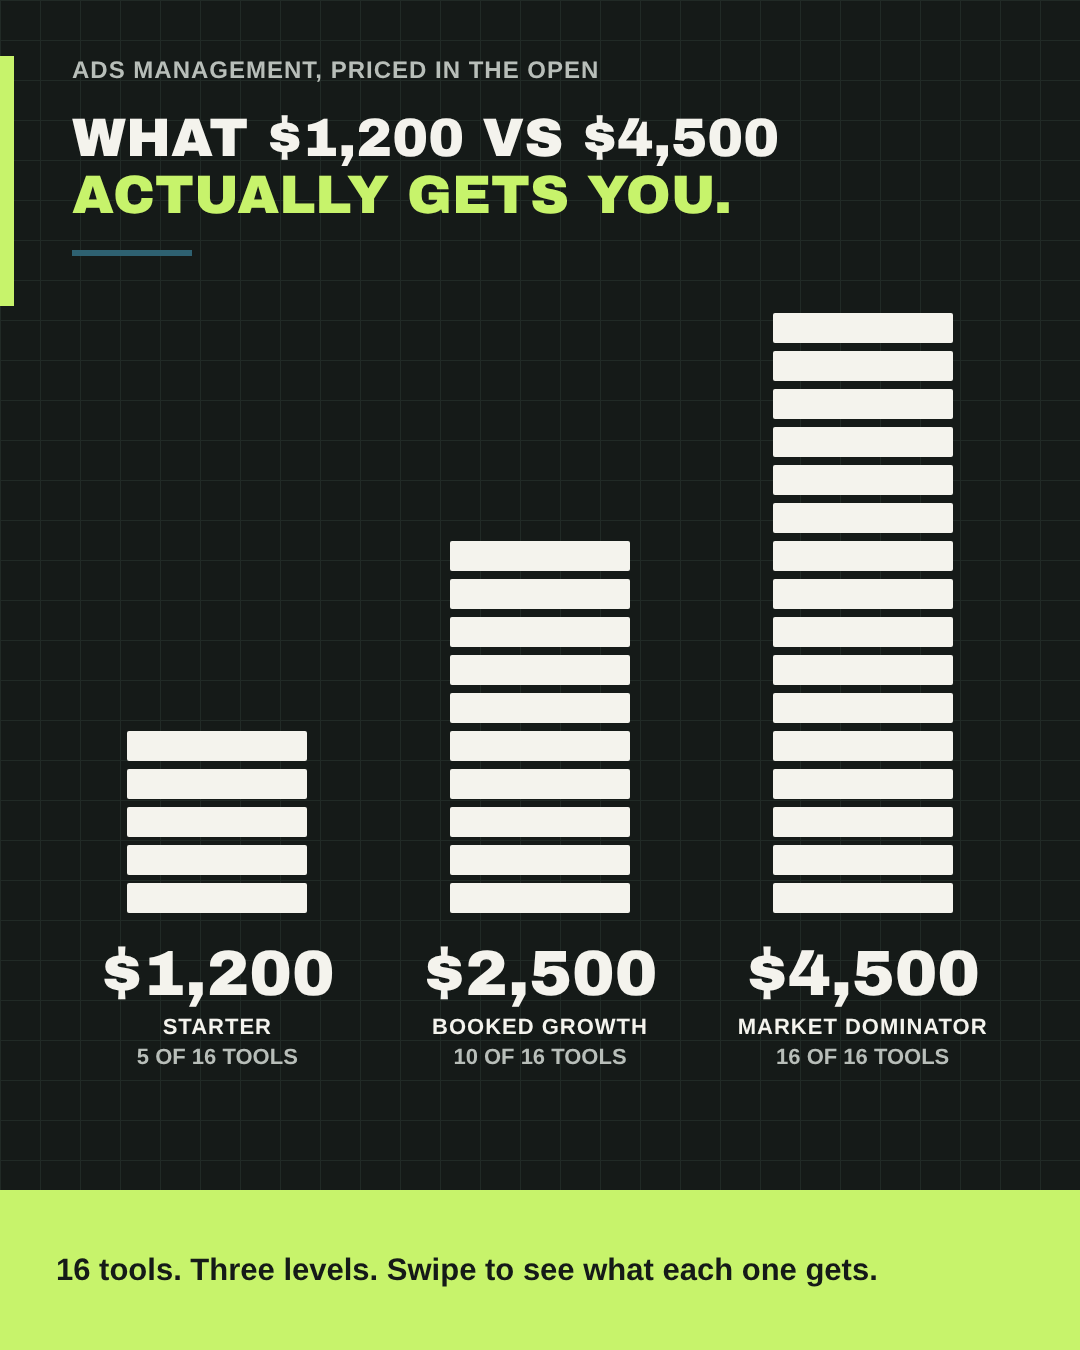
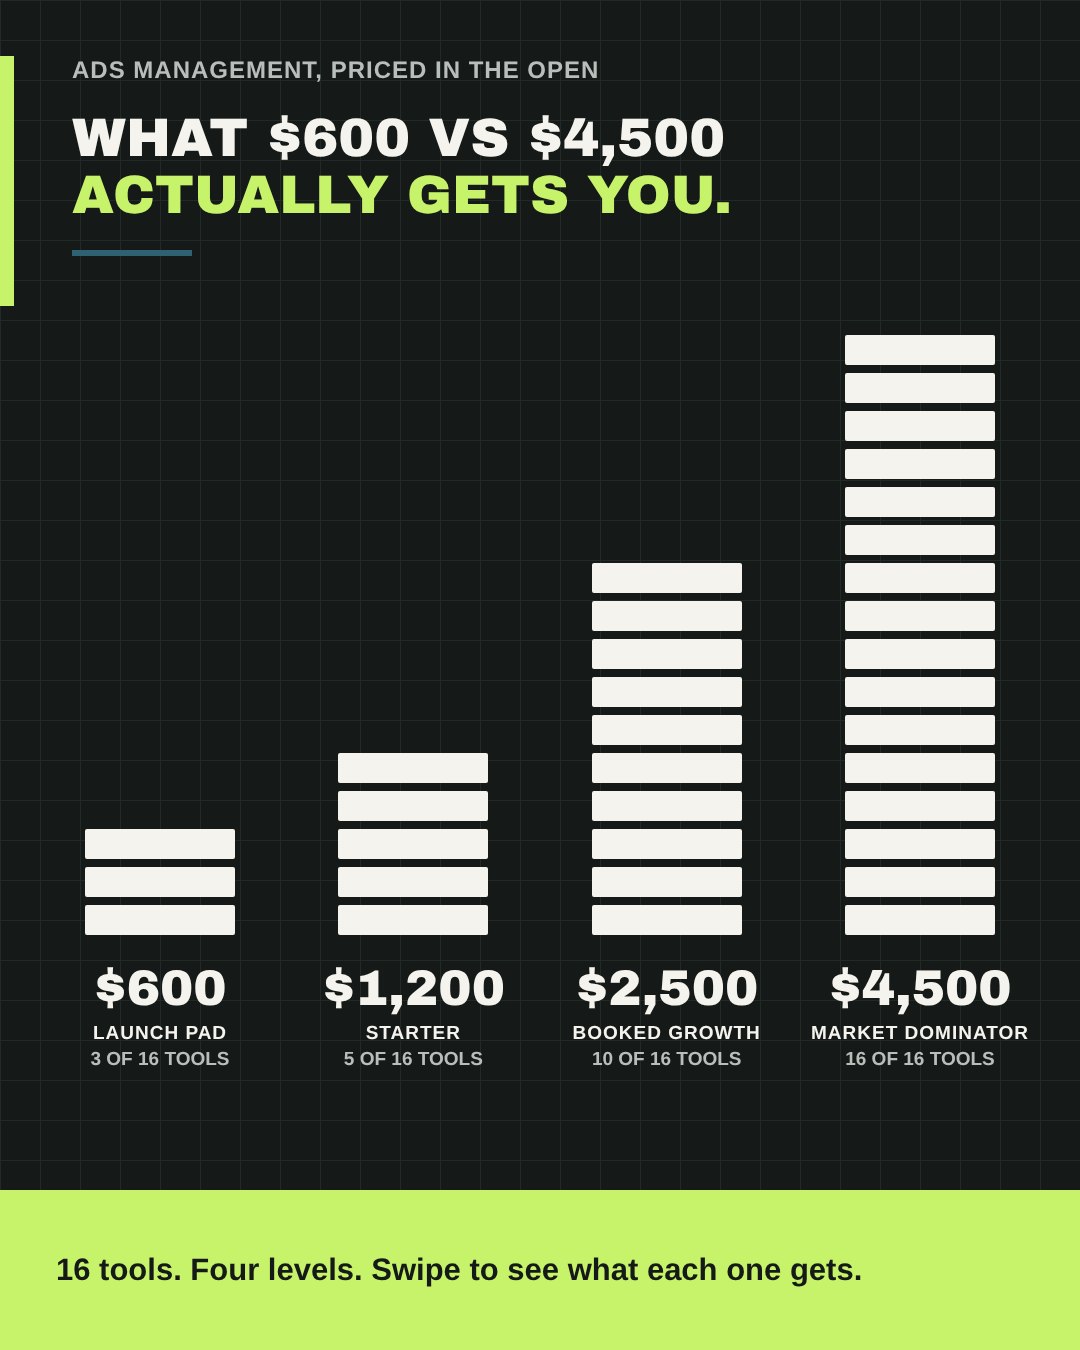
Add the $600 tier to the tier carousel
Shows it publicly as Level 1 of 4 (placeholder name Launch Pad): one
platform, ad copy, monthly report, lead forms only, CRM extra.

Claude-Session: https://claude.ai/code/session_01XH7dYU3EvbNxHwGiV8vcwJ

Changed region(s): [[0.0611, 0.2178, 0.9472, 0.8089], [0.275, 0.0622, 0.7333, 0.1244], [0.1833, 0.9333, 0.825, 0.9644]]

diff --git a/docs/carousel/source/gen.py b/docs/carousel/source/gen.py
@@ -20,12 +20,12 @@ I={
 "priority":f'<path d="M8 28v-6a16 16 0 0 1 32 0v6" {S}/><rect x="6" y="28" width="8" height="12" fill="currentColor"/><rect x="34" y="28" width="8" height="12" fill="currentColor"/>',
 }
 CHECK=f'<svg viewBox="0 0 24 24" width="22" height="22"><path d="M5 12l5 5 9-10" stroke="{INK}" stroke-width="3.5" fill="none" stroke-linecap="square"/></svg>'
-TILES=[("net1","One ad network",1),("copy","Ad copy",1),("season","Seasonal campaigns",1),("track","Call + lead tracking",1),
-("report","Monthly report",1),("net2","Second network",2),("retarget","Retargeting",2),("alert","Instant lead alerts",2),
-("follow","Automated follow-up",2),("creative","Custom creative",2),("video","Video ad editing",3),("crm","Full CRM + booking",3),
-("cats","Every service category",3),("year","Yearly season calendar",3),("review","Bi-weekly reviews",3),("priority","Priority support",3)]
+TILES=[("net1","One ad platform",1),("copy","Ad copy",1),("report","Monthly report",1),("season","Seasonal campaigns",2),
+("track","Call + lead tracking",2),("net2","Second network",3),("retarget","Retargeting",3),("alert","Instant lead alerts",3),
+("follow","Automated follow-up",3),("creative","Custom creative",3),("video","Video ad editing",4),("crm","Full CRM + booking",4),
+("cats","Every service category",4),("year","Yearly season calendar",4),("review","Bi-weekly reviews",4),("priority","Priority support",4)]
 def ic(k,c,sz=52): return f'<svg viewBox="0 0 48 48" width="{sz}" height="{sz}" style="color:{c}">{I[k]}</svg>'
-def meter(n): return ''.join(f'<span style="display:inline-block;width:34px;height:14px;margin-left:6px;{"background:"+CON if i<n else "border:2px solid #5a6560;box-sizing:border-box"}"></span>' for i in range(3))
+def meter(n): return ''.join(f'<span style="display:inline-block;width:34px;height:14px;margin-left:6px;{"background:"+CON if i<n else "border:2px solid #5a6560;box-sizing:border-box"}"></span>' for i in range(4))
 def band(eyebrow,l1,l2,right,lvl=None):
     m=f'<div>{meter(lvl)}</div>' if lvl else ''
     return f'''<div class="band"><div class="bar"></div>
@@ -45,23 +45,24 @@ def tier(lvl,l1,l2,cap,tag=""):
             cells+=f'<div class="tile off">{ic(k,DIM)}<div class="lab">{lab}</div></div>'
     right=f'<div class="count"><b>{n}</b><span>/16</span></div>'
     legend=f'<div class="legend"><span class="lg">{CHECK}</span> New at this level</div>' if lvl>1 else f'<div class="legend">{tag}</div>'
-    return band(f"LEVEL {lvl} OF 3"+(f' &nbsp;·&nbsp; <span style="color:{GREEN}">MOST POPULAR</span>' if lvl==2 else ''),l1,l2,right,lvl)+f'<div class="grid">{cells}</div>{legend}'+foot(cap)
+    return band(f"LEVEL {lvl} OF 4"+(f' &nbsp;·&nbsp; <span style="color:{GREEN}">MOST POPULAR</span>' if lvl==3 else ''),l1,l2,right,lvl)+f'<div class="grid">{cells}</div>{legend}'+foot(cap)
 def cover():
     cols=""
-    for n,price,name in [(5,"$1,200","STARTER"),(10,"$2,500","BOOKED GROWTH"),(16,"$4,500","MARKET DOMINATOR")]:
+    for n,price,name in [(3,"$600","LAUNCH PAD"),(5,"$1,200","STARTER"),(10,"$2,500","BOOKED GROWTH"),(16,"$4,500","MARKET DOMINATOR")]:
         blocks=''.join(f'<div class="blk" style="background:{CON}"></div>' for i in range(n))
         cols+=f'<div class="col"><div class="stack">{blocks}</div><div class="price">{price}</div><div class="nm">{name}</div><div class="nm2">{n} of 16 tools</div></div>'
-    return band("ADS MANAGEMENT, PRICED IN THE OPEN","WHAT $1,200 VS $4,500","ACTUALLY GETS YOU.","")+f'<div class="cols">{cols}</div>'+foot("16 tools. Three levels. Swipe to see what each one gets.")
+    return band("ADS MANAGEMENT, PRICED IN THE OPEN","WHAT $600 VS $4,500","ACTUALLY GETS YOU.","")+f'<div class="cols">{cols}</div>'+foot("16 tools. Four levels. Swipe to see what each one gets.")
 def cta():
     return band("YOUR NEXT STEP","WHICH LEVEL","FITS YOUR SHOP?","")+f'''<div class="ctab">
 <p>Book a 15-minute fit call.</p>
 <p>We look at your area, budget and busy season. Then I'll tell you which level makes sense, even if it's the smallest one.</p>
 <div class="btn">BOOK A FIT CALL</div><div class="lib">Link in bio &nbsp;·&nbsp; @built.tobook</div></div>'''+foot("Prices monthly, CAD in Canada, USD in the US. Ad spend is separate and paid directly to Meta and Google.")
 SL=[("01-cover",cover()),
-("02-starter",tier(1,"STARTER: $1,200/MO.","ONE NETWORK. DONE RIGHT.","Meta or Google, your pick. Core copy, standard seasonal campaigns, basic tracking, monthly email report.","Ad spend separate. Paid to Meta or Google.")),
-("03-booked-growth",tier(2,"BOOKED GROWTH: $2,500/MO.","EVERY LEAD CHASED.","Both networks, retargeting, instant SMS and email lead alerts, automated follow-up, custom creative, monthly reporting call.")),
-("04-market-dominator",tier(3,"MARKET DOMINATOR: $4,500/MO.","ALL 16. EVERY SEASON.","Every service category, full retargeting, ongoing video editing, full CRM and booking, yearly calendar, bi-weekly reviews.")),
-("05-cta",cta())]
+("02-launch-pad",tier(1,"LAUNCH PAD: $600/MO.","ONE PLATFORM. GET STARTED.","Meta or Google, one platform. Core ad copy, lead forms, monthly report. The simplest way to start.","Lead forms only, no landing page. CRM is extra.")),
+("03-starter",tier(2,"STARTER: $1,200/MO.","ONE NETWORK. DONE RIGHT.","Adds standard seasonal campaigns and basic call and lead tracking, with a monthly email report.")),
+("04-booked-growth",tier(3,"BOOKED GROWTH: $2,500/MO.","EVERY LEAD CHASED.","Both networks, retargeting, instant SMS and email lead alerts, automated follow-up, custom creative, monthly reporting call.")),
+("05-market-dominator",tier(4,"MARKET DOMINATOR: $4,500/MO.","ALL 16. EVERY SEASON.","Every service category, full retargeting, ongoing video editing, full CRM and booking, yearly calendar, bi-weekly reviews.")),
+("06-cta",cta())]
 CSS=f'''@import url('https://fonts.googleapis.com/css2?family=Archivo+Black&display=block');
 *{{margin:0;padding:0;box-sizing:border-box}} body{{background:#000}}
 .wrap{{width:1080px;background:{INK};position:relative;overflow:hidden}}
@@ -82,10 +83,10 @@ CSS=f'''@import url('https://fonts.googleapis.com/css2?family=Archivo+Black&disp
 .legend{{padding:18px 56px 0;font:700 22px Arial,'Liberation Sans';color:#B8BEB9;display:flex;align-items:center;gap:12px;text-transform:uppercase;letter-spacing:.5px}}
 .lg{{width:32px;height:32px;background:{GREEN};display:inline-flex;align-items:center;justify-content:center}}
 .foot{{position:absolute;left:0;right:0;bottom:0;height:160px;background:{GREEN};color:{INK};padding:30px 56px;font:700 31px/1.3 Arial,'Liberation Sans';display:flex;align-items:center}}
-.cols{{display:flex;justify-content:space-around;align-items:flex-end;height:770px;padding:0 56px 60px}}
-.col{{text-align:center;width:320px}} .nm{{white-space:nowrap}} .stack{{display:flex;flex-direction:column-reverse;align-items:center;gap:8px}}
-.blk{{width:180px;height:30px;border-radius:2px}} .price{{font:400 64px 'Arial Black','Archivo Black';margin-top:26px}}
-.nm{{font:700 22px Arial,'Liberation Sans';letter-spacing:1px;margin-top:6px}} .nm2{{font:700 22px Arial,'Liberation Sans';color:#B8BEB9;margin-top:4px;text-transform:uppercase}}
+.cols{{display:flex;justify-content:space-between;align-items:flex-end;height:770px;padding:0 40px 60px}}
+.col{{text-align:center;width:240px}} .nm{{white-space:nowrap}} .stack{{display:flex;flex-direction:column-reverse;align-items:center;gap:8px}}
+.blk{{width:150px;height:30px;border-radius:2px}} .price{{font:400 50px 'Arial Black','Archivo Black';margin-top:26px}}
+.nm{{font:700 19px Arial,'Liberation Sans';letter-spacing:1px;margin-top:6px}} .nm2{{font:700 19px Arial,'Liberation Sans';color:#B8BEB9;margin-top:4px;text-transform:uppercase}}
 .ctab{{padding:70px 72px 0}} .ctab p{{font:400 40px/1.35 Arial,'Liberation Sans';margin-bottom:30px;max-width:900px}} .ctab p:first-child{{font-weight:700;font-size:48px}}
 .btn{{display:inline-block;background:{GREEN};color:{INK};font:400 44px 'Arial Black','Archivo Black';padding:34px 56px;border-radius:8px;margin-top:20px}}
 .lib{{font:700 30px Arial,'Liberation Sans';color:#B8BEB9;margin-top:30px;text-transform:uppercase;letter-spacing:1px}}'''

diff --git a/docs/btb-tier-carousel.md b/docs/btb-tier-carousel.md
@@ -1,6 +1,6 @@
-# Tier Carousel: "16 Tools, Three Levels"
+# Tier Carousel: "16 Tools, Four Levels"
 
-Instagram carousel (5 slides) that also runs as a Reel of stills. Shows what each Built To Book ads package includes, from Starter to Market Dominator, using one fixed grid of 16 icon tiles that lights up as the price goes up.
+Instagram carousel (6 slides) that also runs as a Reel of stills. Shows what each Built To Book ads package includes, from Launch Pad ($600) to Market Dominator, using one fixed grid of 16 icon tiles that lights up as the price goes up.
 
 - **Status:** Draft for Steve's approval. Nothing posts without his OK.
 - **Rendered slides:** `docs/carousel/post/` (1080 x 1350, carousel) and `docs/carousel/reel/` (1080 x 1920, Reel). Source to re-render: `docs/carousel/source/` (`python3 gen.py`, then `node shot.js <output dir>` with `post/` and `reel/` folders).
@@ -8,12 +8,13 @@ Instagram carousel (5 slides) that also runs as a Reel of stills. Shows what eac
 - **Brand source:** Built To Book design system in Claude Design (README and tokens) and `assets/Built-to-Book-Visual-Identity-Guide.pdf`.
 - **Goal:** education plus a fair flex. A prospect sees what each level includes and, just as clearly, what it leaves out. One next step: book a 15-minute fit call.
 
-**Changed 2026-11-03:** Steve swapped the original photo concept (people and gear in a shop office) for graphics and icons.
+**Changed 2026-11-03:** Steve swapped the original photo concept (people and gear in a shop office) for graphics and icons, then added the $600 tier so shops that need a smaller first step see one.
 
 ---
 
 ## Open items before posting
 
+0. **The $600 tier goes public.** Until now it was a calls-only downsell. Steve chose to show it here. Still to confirm: the name ("Launch Pad" is a placeholder Claude picked), and that it is billed monthly like the other tiers. Inclusions per Steve: one platform (Meta or Google), ad copy, monthly report, lead forms only (no landing page), CRM extra.
 1. **Icons are new to the brand.** The design system has no icon set (only the logo check) and says to ask before adding one. These 16 icons were drawn for this post in the brand's block style: square stroke, solid fills, no curves except the clock, retarget and headset. Steve approves them, or they get swapped for a set he picks. If approved, add them to the design system as its first icon set.
 2. **November bonus mismatch.**
    - **Homepage:** the bonus comes with Booked Growth and Market Dominator only.
@@ -32,54 +33,58 @@ One 4 x 4 grid of 16 tiles sits in the same position on every tier slide. Each t
 - **Included:** solid Concrete White tile, Jobsite Ink icon and label.
 - **Not included:** dashed outline, dimmed icon and label still readable, so the viewer sees exactly what they are missing.
 - **New at this level:** small Signal Green corner block with the check, plus a "New at this level" legend.
-- **Counter:** big "5/16", "10/16", "16/16" beside the headline.
-- **Level meter:** three blocks top right, filled 1, 2 or 3.
+- **Counter:** big "3/16", "5/16", "10/16", "16/16" beside the headline.
+- **Level meter:** four blocks top right, filled 1 to 4.
 
-| # | Tile | Starter | Booked Growth | Market Dominator |
-|---|---|---|---|---|
-| 1 | One ad network | ✓ | ✓ | ✓ |
-| 2 | Ad copy | ✓ | ✓ | ✓ |
-| 3 | Seasonal campaigns | ✓ | ✓ | ✓ |
-| 4 | Call + lead tracking | ✓ | ✓ | ✓ |
-| 5 | Monthly report | ✓ | ✓ | ✓ |
-| 6 | Second network | | ✓ | ✓ |
-| 7 | Retargeting | | ✓ | ✓ |
-| 8 | Instant lead alerts | | ✓ | ✓ |
-| 9 | Automated follow-up | | ✓ | ✓ |
-| 10 | Custom creative | | ✓ | ✓ |
-| 11 | Video ad editing | | | ✓ |
-| 12 | Full CRM + booking | | | ✓ |
-| 13 | Every service category | | | ✓ |
-| 14 | Yearly season calendar | | | ✓ |
-| 15 | Bi-weekly reviews | | | ✓ |
-| 16 | Priority support | | | ✓ |
+| # | Tile | Launch Pad | Starter | Booked Growth | Market Dominator |
+|---|---|---|---|---|---|
+| 1 | One ad platform | ✓ | ✓ | ✓ | ✓ |
+| 2 | Ad copy | ✓ | ✓ | ✓ | ✓ |
+| 3 | Monthly report | ✓ | ✓ | ✓ | ✓ |
+| 4 | Seasonal campaigns |  | ✓ | ✓ | ✓ |
+| 5 | Call + lead tracking |  | ✓ | ✓ | ✓ |
+| 6 | Second network |  |  | ✓ | ✓ |
+| 7 | Retargeting |  |  | ✓ | ✓ |
+| 8 | Instant lead alerts |  |  | ✓ | ✓ |
+| 9 | Automated follow-up |  |  | ✓ | ✓ |
+| 10 | Custom creative |  |  | ✓ | ✓ |
+| 11 | Video ad editing |  |  |  | ✓ |
+| 12 | Full CRM + booking |  |  |  | ✓ |
+| 13 | Every service category |  |  |  | ✓ |
+| 14 | Yearly season calendar |  |  |  | ✓ |
+| 15 | Bi-weekly reviews |  |  |  | ✓ |
+| 16 | Priority support |  |  |  | ✓ |
 
-The jump is unmistakable because nothing moves: the same grid fills from 5 to 10 to 16.
+The jump is unmistakable because nothing moves: the same grid fills from 3 to 5 to 10 to 16.
 
 ---
 
 ## Slides
 
 **1. Hook cover**
-- Headline: "WHAT $1,200 VS $4,500 / ACTUALLY GETS YOU." (second line in Signal Green)
+- Headline: "WHAT $600 VS $4,500 / ACTUALLY GETS YOU." (second line in Signal Green)
 - Eyebrow: "ADS MANAGEMENT, PRICED IN THE OPEN"
-- Graphic: three stacks of blocks, 5, 10 and 16 high, with the price, package name and "X OF 16 TOOLS" under each. The tallest stack does the teasing.
-- Bottom bar: "16 tools. Three levels. Swipe to see what each one gets."
+- Graphic: four stacks of blocks, 3, 5, 10 and 16 high, with the price, package name and "X OF 16 TOOLS" under each.
+- Bottom bar: "16 tools. Four levels. Swipe to see what each one gets."
 
-**2. Starter, $1,200/mo** (5/16)
+**2. Launch Pad, $600/mo** (3/16)
+- Headline: "LAUNCH PAD: $600/MO. / ONE PLATFORM. GET STARTED."
+- Note under grid: "Lead forms only, no landing page. CRM is extra."
+- Caption line: "Meta or Google, one platform. Core ad copy, lead forms, monthly report. The simplest way to start."
+
+**3. Starter, $1,200/mo** (5/16)
 - Headline: "STARTER: $1,200/MO. / ONE NETWORK. DONE RIGHT."
-- Note under grid: "Ad spend separate. Paid to Meta or Google."
-- Caption line: "Meta or Google, your pick. Core copy, standard seasonal campaigns, basic tracking, monthly email report."
+- Caption line: "Adds standard seasonal campaigns and basic call and lead tracking, with a monthly email report."
 
-**3. Booked Growth, $2,500/mo** (10/16, eyebrow tag "MOST POPULAR")
+**4. Booked Growth, $2,500/mo** (10/16, eyebrow tag "MOST POPULAR")
 - Headline: "BOOKED GROWTH: $2,500/MO. / EVERY LEAD CHASED."
 - Caption line: "Both networks, retargeting, instant SMS and email lead alerts, automated follow-up, custom creative, monthly reporting call."
 
-**4. Market Dominator, $4,500/mo** (16/16)
+**5. Market Dominator, $4,500/mo** (16/16)
 - Headline: "MARKET DOMINATOR: $4,500/MO. / ALL 16. EVERY SEASON."
 - Caption line: "Every service category, full retargeting, ongoing video editing, full CRM and booking, yearly calendar, bi-weekly reviews."
 
-**5. Call to action**
+**6. Call to action**
 - Headline: "WHICH LEVEL / FITS YOUR SHOP?"
 - Body: "Book a 15-minute fit call. We look at your area, budget and busy season. Then I'll tell you which level makes sense, even if it's the smallest one."
 - Button: "BOOK A FIT CALL", then "LINK IN BIO · @BUILT.TOBOOK"
@@ -91,9 +96,11 @@ The jump is unmistakable because nothing moves: the same grid fills from 5 to 10
 
 > Every agency says they "run your ads." Here's exactly what that means at each price.
 >
-> 16 things we can do for you. Three levels.
+> 16 things we can do for you. Four levels.
 >
-> Starter, $1,200/mo: 5 of 16. One network (Meta or Google), core copy, seasonal campaigns, call and lead tracking, a monthly email report. Good for testing ads on one platform.
+> Launch Pad, $600/mo: 3 of 16. One platform (Meta or Google), core ad copy and a monthly report. Ads run to lead forms, no landing page, and CRM is extra. For shops that need a smaller first step.
+>
+> Starter, $1,200/mo: 5 of 16. Adds seasonal campaigns and call and lead tracking. Good for testing ads properly on one platform.
 >
 > Booked Growth, $2,500/mo: 10 of 16. Adds the second network, retargeting for people who looked but didn't book, instant lead alerts, automated follow-up and custom creative. Built for shops with room for 15 to 30+ new jobs a month.
 >
@@ -125,9 +132,10 @@ The jump is unmistakable because nothing moves: the same grid fills from 5 to 10
 | Slide | Hold |
 |---|---|
 | 1, hook | 2.0 s |
-| 2, Starter | 3.0 s |
-| 3, Booked Growth | 3.0 s |
-| 4, Market Dominator | 3.5 s |
-| 5, CTA | 3.0 s |
+| 2, Launch Pad | 3.0 s |
+| 3, Starter | 3.0 s |
+| 4, Booked Growth | 3.0 s |
+| 5, Market Dominator | 3.5 s |
+| 6, CTA | 3.0 s |
 
-Hard cuts on the beat. Because the grid never moves, the tiles appear to light up between slides 2, 3 and 4. About 14.5 seconds; use slide 1 as the Reel cover.
+Hard cuts on the beat. Because the grid never moves, the tiles appear to light up between slides 2 and 5. About 17.5 seconds; use slide 1 as the Reel cover.

diff --git a/MEMORY.md b/MEMORY.md
@@ -10,7 +10,7 @@ Last updated: 2026-11-03
 
 This section is current as of 2026-11-02 and overrides older notes below where they conflict.
 
-- **Offer pivot:** Built To Book now sells Meta and Google ads to home services and professional services owners in Canada and the USA. Tiers: Starter $1,200, Booked Growth $2,500, Market Dominator $4,500. A $600 downsell is used only on calls. The older four website packages below are superseded.
+- **Offer pivot:** Built To Book now sells Meta and Google ads to home services and professional services owners in Canada and the USA. Tiers: Starter $1,200, Booked Growth $2,500, Market Dominator $4,500. A $600 tier (one platform, ad copy, monthly report, lead forms only with no landing page, CRM extra) was a calls-only downsell; on 2026-11-03 Steve chose to show it publicly in the tier carousel. The older four website packages below are superseded.
 - **November bonus:** the first 5 clients who sign up in November (any tier) get 1 free edited video ad plus 1 hour of shooting ($500 value). Landing page: https://try.built2book.live/nov-promo/
 - **Copy rules:** plain language, no em dashes, no hype, no guarantees, no made-up stats, no fake testimonials. Nothing goes to team or customers without Steve's approval.
 - **Website:** built and hosted in GHL; domain built2book.live registered at Squarespace. The bare domain redirects to www.built2book.live, which is the live site. The GHL domain Default Page is now "Built To Book", so the root URL loads the main page. The old archive page is unpublished and redirected. Live pages: home, /privacy-policy, /terms-and-conditions.
@@ -19,7 +19,7 @@ This section is current as of 2026-11-02 and overrides older notes below where t
 - **Google Ads:** account 375-010-8592 (under steve@grndedagency.com), CAD, Mountain time, goal appointment leads. Ads point to the nov-promo landing page, not the Business Profile. First search campaign drafted and paused until conversion tracking on the booking thank-you page is live. Keyword list to finish after Keyword Planner results.
 - **Cold email:** 50 Winnr.app mailboxes warming in Instantly. Going 100% lead magnet based; Steve is building the new lead magnet this week (replaces the free mockup as the cold email magnet). Then landing page, 4-email sequence and leads loaded in Instantly before Nov 15.
 - **Local trade shows:** Millarville Christmas Market (Nov 5 to 8 and 12 to 15). Vendor sheet (303 vendors, 50-vendor priority list) and outreach kit are in the Built To Book Google Drive folder under "Local Trade Shows".
-- **Tier carousel (2026-11-03):** `docs/btb-tier-carousel.md` plus rendered PNGs in `docs/carousel/post` (4:5) and `docs/carousel/reel` (9:16). Steve switched from a photo concept to graphics: one 4x4 grid of 16 icon tiles lights up 5, 10, 16 across Starter, Booked Growth, Market Dominator. Regular prices used. Open: approve the 16 new icons (design system has no icon set), settle the November bonus conflict (homepage says Booked Growth and Market Dominator only; nov-promo page says any package and Starter $1,000 in November), confirm the 16-tool grouping.
+- **Tier carousel (2026-11-03):** `docs/btb-tier-carousel.md` plus rendered PNGs in `docs/carousel/post` (4:5) and `docs/carousel/reel` (9:16). Steve switched from a photo concept to graphics: one 4x4 grid of 16 icon tiles lights up 3, 5, 10, 16 across Launch Pad ($600, placeholder name), Starter, Booked Growth, Market Dominator. Regular prices used. Open: approve the 16 new icons (design system has no icon set), settle the November bonus conflict (homepage says Booked Growth and Market Dominator only; nov-promo page says any package and Starter $1,000 in November), confirm the 16-tool grouping.
 - **Ad creative:** AI-generated images allowed; Steve uses a custom Gemini avatar for truck scene ads. AI imagery stays illustrative, never presented as real client work.
 
 ---

diff --git a/README.md b/README.md
@@ -41,7 +41,7 @@ All working docs are in [`docs/`](docs/).
 | File | What it is |
 |---|---|
 | [btb-launch-and-content-plan.md](docs/btb-launch-and-content-plan.md) | Launch sequence, core premise, content types, October themes, first draft posts |
-| [btb-tier-carousel.md](docs/btb-tier-carousel.md) | "16 Tools, Three Levels" Instagram carousel and Reel for the three ads packages: slide copy, caption, art direction. Rendered slides in `docs/carousel/` |
+| [btb-tier-carousel.md](docs/btb-tier-carousel.md) | "16 Tools, Four Levels" Instagram carousel and Reel for the four ads tiers ($600 to $4,500): slide copy, caption, art direction. Rendered slides in `docs/carousel/` |
 | [btb-daily-actions.md](docs/btb-daily-actions.md) | The fixed daily hour of sales and content actions, with KPIs |
 | [btb-outreach-acceleration-plan.md](docs/btb-outreach-acceleration-plan.md) | Short sales sprint plan: weak-website offer, prospect scoring and tool options |
 | [btb-mvf-map.md](docs/btb-mvf-map.md) | Minimum viable funnel: pipeline stages, automations, DM scripts, build order |
